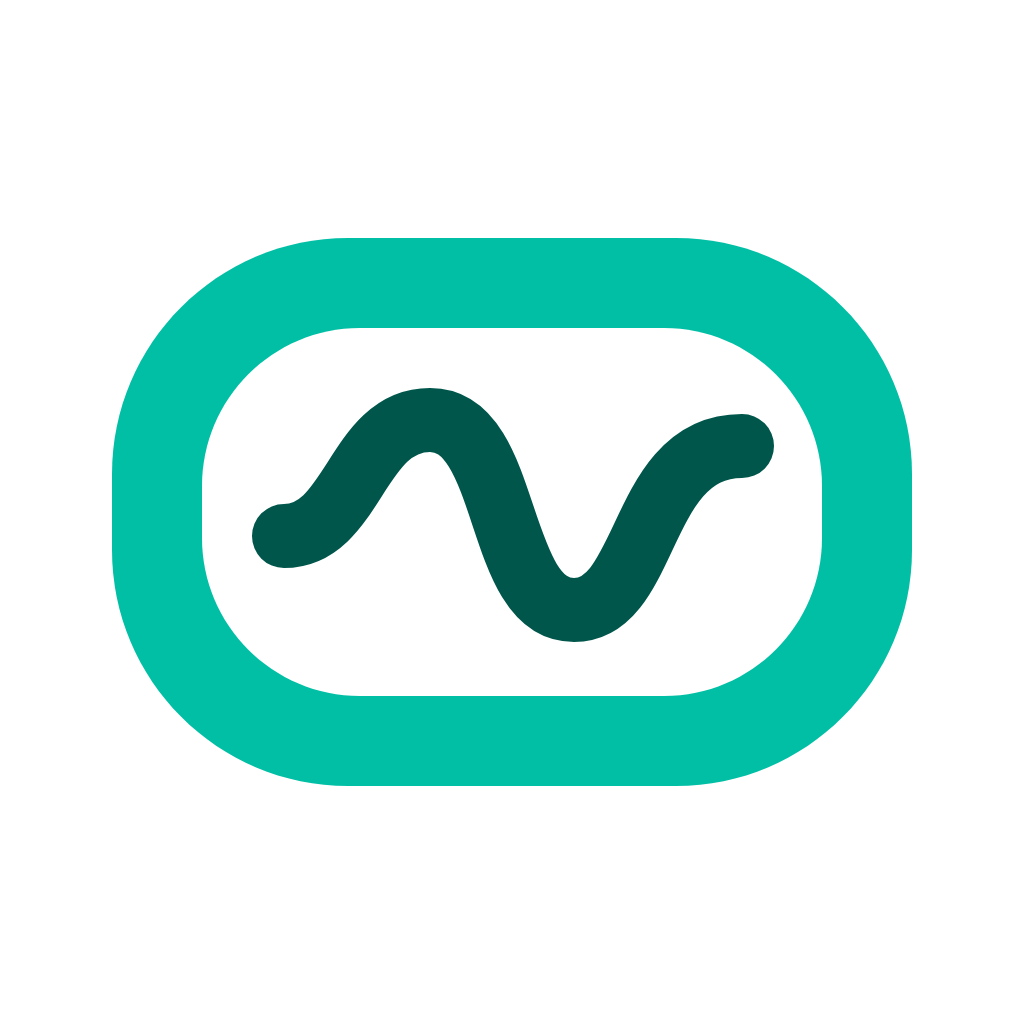
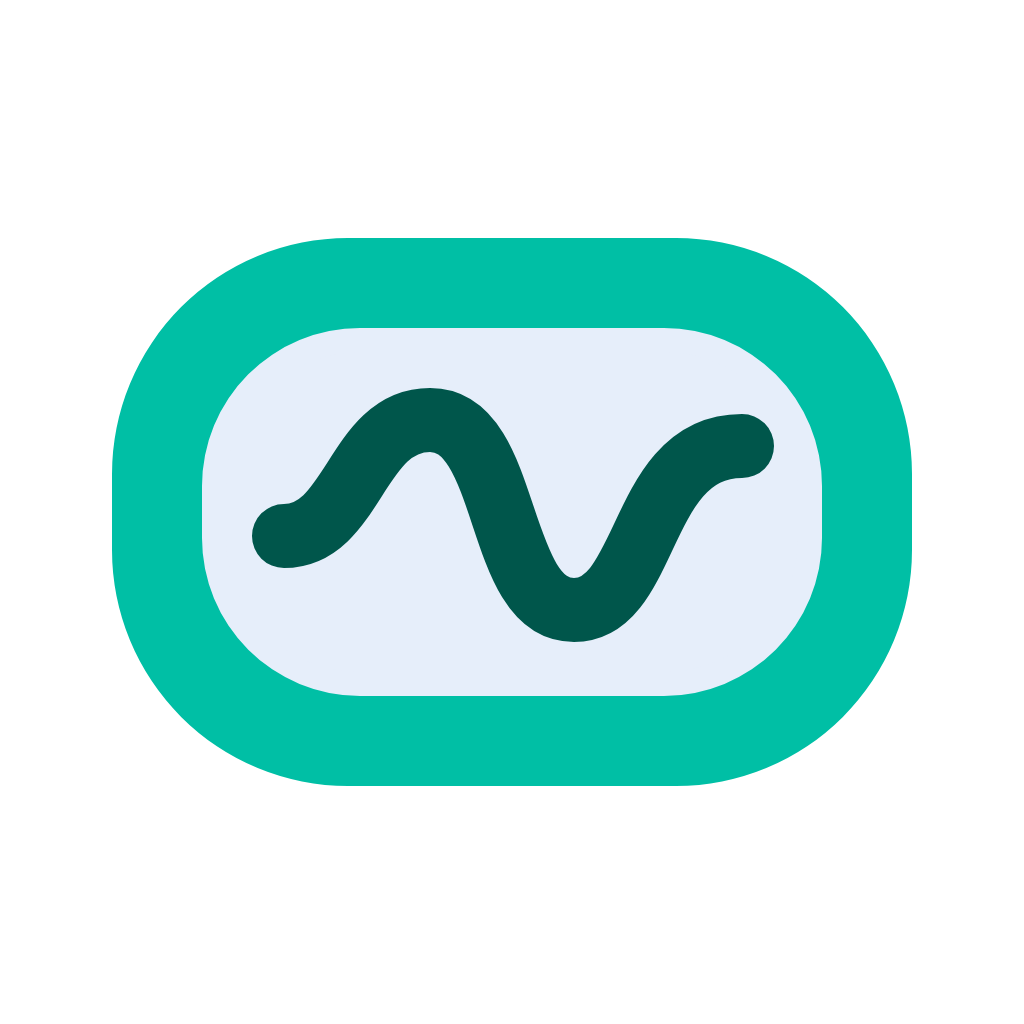
Sync NPQ product brand assets with canonical app interior

Changed region(s): [[0.1875, 0.3125, 0.8125, 0.6875]]

diff --git a/README.md b/README.md
@@ -147,3 +147,7 @@ the manifest is the reusable source for future existing-slot consumption, not a 
 `npm run check` and the staging artifact builder verify hashes. Standalone CI
 validates the committed receipt when the App sibling is absent; it never downloads
 or writes another session's checkout. This does not update remotely published CMS assets.
+
+### NPQ 제품 아이콘 원본 (2026-10-31)
+
+NPQ 앱 연결용 자산은 App `docs/APP_BRAND_ICON_SPEC.md`의 밝은 내부 `#E6EEFA` 원본을 사용한다. `scripts/sync-app-brand.mjs`로 SVG hash와 설치용 PNG를 동기화하며 `--check`로 byte 대조한다. 회사 자체 Netmelon 로고·파비콘은 이 앱 브랜드 자산과 별개다. 이번 sync/check, npm check, secret path 검사 PASS. 원격 배포 없음.
